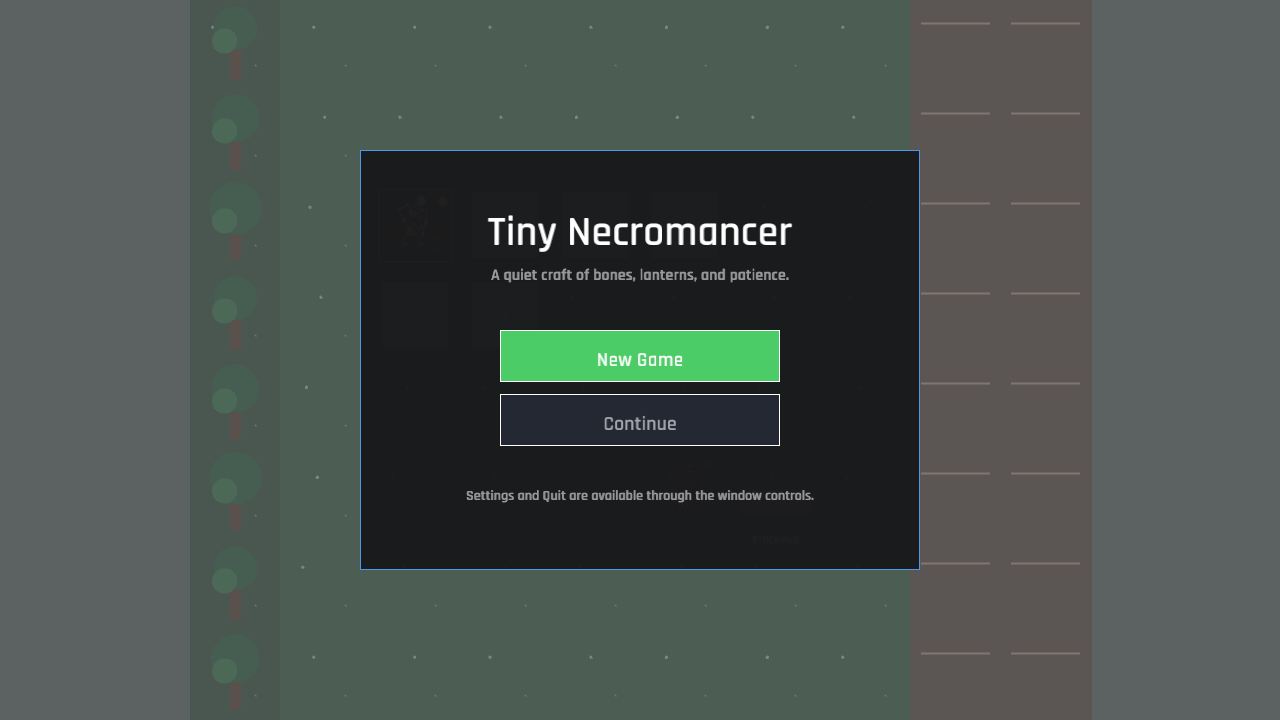
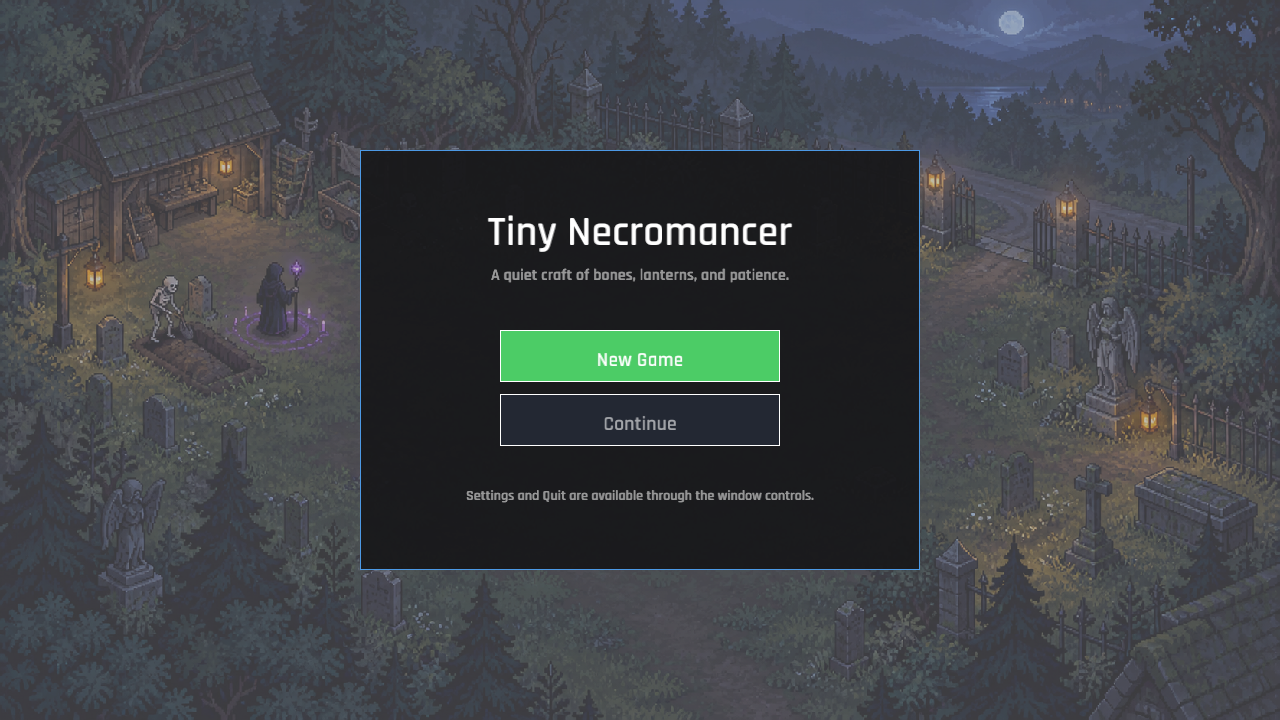
The cemetery opens beneath a quieter moonlit threshold (title screen art and asset loading)
The old menu showed the simulated cemetery behind its controls, so the game's first impression did not have a dedicated composition. Add the generated pixel-art 	itle_background.png, register it through the texture manifest and asset registry, and render it as the full-screen MainMenu scene while leaving the playable world path unchanged.

Refresh the title verification capture and catalog_thumbnail.png so the shipped catalog image matches the new menu. cargo test, the title capture, and the default Windows/WebGL publisher all pass. Preview tracking still reports the existing local Project Roost connection warning, but deployment and catalog sync complete.

diff --git a/src/ui/world.rs b/src/ui/world.rs
@@ -3,7 +3,7 @@
 use super::components::{selected_tile_at, GridView};
 use super::{world_grid_rect, UiContext, LOGICAL_HEIGHT, LOGICAL_WIDTH};
 use crate::state::{
-    Building, BuildingKind, PlotStatus, Selection, Technology, WorkerStatus, ZoneKind,
+    Building, BuildingKind, GamePhase, PlotStatus, Selection, Technology, WorkerStatus, ZoneKind,
 };
 use macroquad::prelude::*;
 use macroquad_toolkit::grid::TilePos;
@@ -11,6 +11,10 @@ use macroquad_toolkit::prelude::*;
 use macroquad_toolkit::ui::VirtualUi;
 
 pub(super) fn draw_world_scene(ctx: &UiContext<'_>) {
+    if ctx.session.phase == GamePhase::MainMenu {
+        draw_title_background(ctx.title_background);
+        return;
+    }
     let view = GridView::new(ctx, world_grid_rect());
     draw_rectangle(
         0.0,
@@ -73,6 +77,28 @@ pub(super) fn draw_world_scene(ctx: &UiContext<'_>) {
     draw_necromancer(ctx, &view);
     if let Some(kind) = ctx.placement {
         draw_placement_preview(ctx, &view, kind);
+    }
+}
+
+fn draw_title_background(texture: Option<&Texture2D>) {
+    draw_rectangle(
+        0.0,
+        0.0,
+        LOGICAL_WIDTH,
+        LOGICAL_HEIGHT,
+        Color::new(0.025, 0.045, 0.055, 1.0),
+    );
+    if let Some(texture) = texture {
+        draw_texture_ex(
+            texture,
+            0.0,
+            0.0,
+            WHITE,
+            DrawTextureParams {
+                dest_size: Some(vec2(LOGICAL_WIDTH, LOGICAL_HEIGHT)),
+                ..Default::default()
+            },
+        );
     }
 }
 

diff --git a/src/game.rs b/src/game.rs
@@ -294,6 +294,7 @@ impl Game {
             camera: self.camera,
             ui: &virtual_ui,
             sprites: self.assets.get_texture("cemetery_sprites"),
+            title_background: self.assets.get_texture("title_background"),
             panel: self.panel,
             placement: self.placement,
             zone_mode: self.zone_mode,

diff --git a/src/ui.rs b/src/ui.rs
@@ -69,6 +69,7 @@ pub struct UiContext<'a> {
     pub camera: CameraTransform,
     pub ui: &'a VirtualUi,
     pub sprites: Option<&'a Texture2D>,
+    pub title_background: Option<&'a Texture2D>,
     pub panel: Panel,
     pub placement: Option<BuildingKind>,
     pub zone_mode: Option<ZoneKind>,
